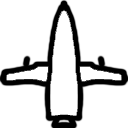
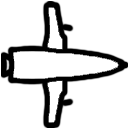
moveable spaceship and stuff

diff --git a/src/spaceship.cpp b/src/spaceship.cpp
@@ -2,10 +2,91 @@
 
 Spaceship::Spaceship(float x, float y) : Renderable(x, y)
 {
-    //ctor
+    xrel = 0;
+    xrel = 0;
 }
 
 Spaceship::~Spaceship()
 {
     //dtor
+}
+
+void Spaceship::setTarget(float xin, float yin)
+{
+    target.x = xin;
+    target.y = yin;
+    target.xrel = target.x - getX();
+    target.yrel = target.y - getY();
+    lasttick = SDL_GetTicks();
+}
+
+bool Spaceship::move()
+{
+    //std::cout << xrel << ", " << yrel << std::endl;
+
+    //if(getX()!=target.x || getY()!=target.y)
+    if(target.x - getX() > 1 || target.x - getX() < -1 || target.y - getY() > 1 || target.y - getY() < -1)
+    {
+        nowtick = SDL_GetTicks();
+
+        target.xrel = target.x - getX();
+        target.yrel = target.y - getY();
+
+        turn();
+
+        /*if(target.xrel < xrel && target.yrel < yrel)
+        {
+            turnRight();
+        }
+        else if(target.xrel > xrel && target.yrel > yrel)
+        {
+            turnRight();
+        }
+        else if(target.xrel < xrel && target.yrel > yrel)
+        {
+            turnLeft();
+        }
+        else if(target.xrel > xrel && target.yrel < yrel)
+        {
+            turnLeft();
+        }*/
+
+        float xvel = 100. * (cos(getR() * 3.14159265 / 180.));
+        float yvel = 100. * (sin(getR() * 3.14159265 / 180.));
+
+        setX(getX() + xvel * ((nowtick - lasttick) / 1000.));
+        setY(getY() + yvel * ((nowtick - lasttick) / 1000.));
+
+        std::cout << target.xrel << ", " << target.yrel << std::endl;
+
+        lasttick = nowtick;
+        return false;
+    }
+    return true;
+}
+
+void Spaceship::turn()
+{
+    xrel += target.xrel - xrel;
+    yrel += target.yrel - yrel;
+    setR(atan2(yrel, xrel) * 180 / 3.14159265);
+    if(getR() > 180)
+    {
+        setR(getR() - 360);
+    }
+    if(getR() < -180)
+    {
+        setR(getR() + 360);
+    }
+}
+
+void Spaceship::turnRight()
+{
+
+}
+
+void Spaceship::turnLeft()
+{
+    xrel = target.xrel - xrel / 10;
+    yrel = target.yrel - yrel / 10;
 }

diff --git a/src/renderer.cpp b/src/renderer.cpp
@@ -3,7 +3,7 @@
 Renderer::Renderer()
 {
     window = SDL_CreateWindow("Project Seven", SDL_WINDOWPOS_CENTERED, SDL_WINDOWPOS_CENTERED, GameVariables::screenResX, GameVariables::screenResY, SDL_WINDOW_SHOWN | SDL_WINDOW_ALLOW_HIGHDPI);
-    screen = SDL_CreateRenderer( window, -1, SDL_RENDERER_ACCELERATED );
+    screen = SDL_CreateRenderer( window, -1, SDL_RENDERER_ACCELERATED | SDL_RENDERER_PRESENTVSYNC);
 
     screenShiftX = GameVariables::screenResX / 2;
     screenShiftY = GameVariables::screenResY / 2;
@@ -29,14 +29,17 @@ void Renderer::render()
     //render stuff
 
     Renderable* renderable = player->getSs();
+    SDL_Point center;
 
     SDL_Rect posrect;
     posrect.w = 128;
     posrect.h = 128;
-    posrect.x = renderable->getX() + screenShiftX - posrect.w / 2;
-    posrect.y = renderable->getY() + screenShiftY - posrect.h / 2;
+    posrect.x = renderable->getX() + screenShiftX - (posrect.w / 2);
+    posrect.y = renderable->getY() + screenShiftY - (posrect.h / 2);
+    center.x = 64;
+    center.y = 64;
 
-    SDL_RenderCopy(screen, texturizer->loadTexture(renderable->getTex()), NULL, &posrect);
+    SDL_RenderCopyEx(screen, texturizer->loadTexture(renderable->getTex()), NULL, &posrect, renderable->getR(), &center, SDL_FLIP_NONE);
 
     SDL_RenderPresent(screen);
 }

diff --git a/src/player.cpp b/src/player.cpp
@@ -1,7 +1,8 @@
 #include "player.h"
 
-Player::Player()
+Player::Player(Movement* movementin)
 {
+    movement = movementin;
     spaceship = new Spaceship(0., 0.);
     x = 0;
     y = 0;
@@ -9,8 +10,9 @@ Player::Player()
 
 Player::~Player()
 {
-    //dtor
+    delete spaceship;
 }
+
 Spaceship* Player::getSs()
 {
     return spaceship;
@@ -18,6 +20,9 @@ Spaceship* Player::getSs()
 
 void Player::setDestination(float xin, float yin)
 {
-    spaceship->setX(x + xin - GameVariables::screenResX / 2);
-    spaceship->setY(y + yin - GameVariables::screenResY / 2);
+    spaceship->setTarget(x + xin - GameVariables::screenResX / 2, y + yin - GameVariables::screenResY / 2);
+
+    std::cout << "adding spaceship" << std::endl;
+    movement->subscribe(std::bind(&spaceship->move, spaceship));
 }
+

diff --git a/include/spaceship.h b/include/spaceship.h
@@ -2,15 +2,39 @@
 #define SPACESHIP_H
 
 #include "renderable.h"
+#include <iostream>
+#include <math.h>
+#include "SDL.h"
 
+
+struct Target
+{
+    float x;
+    float y;
+    float xrel;
+    float yrel;
+};
 
 class Spaceship : public Renderable
 {
     public:
         Spaceship(float, float);
         virtual ~Spaceship();
+        void setTarget(float, float);
+        bool move();
     protected:
     private:
+        Target target;
+        Uint32 lasttick;
+        Uint32 nowtick;
+        void turnRight();
+        void turnLeft();
+        void turn();
+        float xrel;
+        float yrel;
+        float xvel;
+        float yvel;
+
 };
 
 #endif // SPACESHIP_H

diff --git a/include/player.h b/include/player.h
@@ -1,21 +1,26 @@
 #ifndef PLAYER_H
 #define PLAYER_H
 
+#include <iostream>
 #include "spaceship.h"
 #include "gamevariables.h"
+#include "movement.h"
+#include <functional>
 
 class Player
 {
     public:
-        Player();
+        Player(Movement*);
         virtual ~Player();
         Spaceship* getSs();
         void setDestination(float, float);
     protected:
     private:
+        Movement* movement;
         Spaceship* spaceship;
         float x;
         float y;
+        void test();
 };
 
 #endif // PLAYER_H

diff --git a/src/movement.cpp b/src/movement.cpp
@@ -1,0 +1,28 @@
+#include "movement.h"
+
+Movement::Movement()
+{
+    //ctor
+}
+
+Movement::~Movement()
+{
+    //dtor
+}
+
+void Movement::subscribe(std::function<bool()> callback)
+{
+    movelist.push_back(callback);
+    std::cout << "spaceship added" << std::endl;
+}
+
+void Movement::loop()
+{
+    for(unsigned int i = 0;i<movelist.size();i++)
+    {
+        if(movelist[i]())
+        {
+            movelist.erase(movelist.begin() + i);
+        }
+    }
+}

diff --git a/src/core.cpp b/src/core.cpp
@@ -8,8 +8,9 @@ Core::Core()
 
     events = new Events();
     renderer = new Renderer();
+    movement = new Movement();
 
-    player = new Player();
+    player = new Player(movement);
     renderer->addPlayer(player);
     events->addPlayer(player);
 
@@ -30,6 +31,7 @@ void Core::loop()
     while(GameVariables::running)
     {
         events->eventLoop();
+        movement->loop();
         renderer->render();
     }
 }

diff --git a/include/movement.h b/include/movement.h
@@ -1,0 +1,20 @@
+#ifndef MOVEMENT_H
+#define MOVEMENT_H
+
+#include <vector>
+#include <functional>
+#include "spaceship.h"
+
+class Movement
+{
+    public:
+        Movement();
+        virtual ~Movement();
+        void subscribe(std::function<bool()>);
+        void loop();
+    protected:
+    private:
+        std::vector<std::function<bool()>> movelist;
+};
+
+#endif // MOVEMENT_H

diff --git a/include/core.h b/include/core.h
@@ -8,6 +8,7 @@
 #include "events.h"
 #include "renderer.h"
 #include "player.h"
+#include "movement.h"
 
 class Core
 {
@@ -20,6 +21,7 @@ class Core
         Events* events;
         Renderer* renderer;
         Player* player;
+        Movement* movement;
 };
 
 #endif // CORE_H
